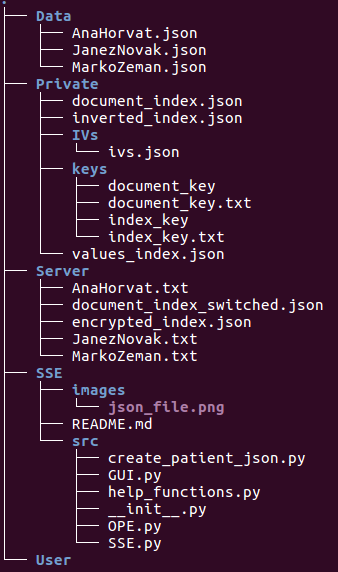
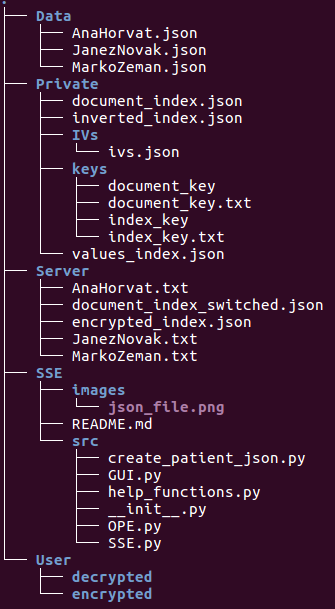
Documentation completed

diff --git a/README.md b/README.md
@@ -11,9 +11,9 @@ Search steps over encrypted data:
 1. Create three example json data files. You can create examples if you execute python file _create\_patient\_json.py_. One of examples is shown in the picture.  
 ![alt json_file](images/json_file.png "JSON file")
 
-2. Create index and document key and save them: _SSE_ class method _generate\_and\_save\_keys_.
+2. Create 32B index and document key and save them: _SSE_ class method _generate\_and\_save\_keys_.
 
-3. Generate IVs and update document index - _SSE_ class method _update\_IVs\_and\_doc\_index_.
+3. Generate 16B IVs and update document index - _SSE_ class method _update\_IVs\_and\_doc\_index_.
 
 4. Create switched document index for server - _SSE_ class method _create\_switched\_document\_index_.
 
@@ -33,9 +33,8 @@ Search steps over encrypted data:
 
 
 ### _Instructions for establishing working directory_
-Opiši direktorijsko strukturo. Testiraj v drugi mapi od začetka.
 
-1. Create empty folder and name it _TestSSE_.
+1. Create empty folder and name it for example _TestSSE_.
 
 2. Inside this directory create five more folders and name them _Data_, _Private_, _Server_, _SSE_, _User_.
 
@@ -91,6 +90,8 @@ ope.encrypt_index()
 ope.encrypt_documents()
 ```
 
+11. Inside _User_ directory make two empty directories named _encrypted_ and _decrypted_.
+
 After that your directory structure should look something like this:    
 ![alt folder_structure_4](images/folder_structure_4.png "directory structure")
 
@@ -103,27 +104,15 @@ Encrypted file of Janez Novak should look like this:
 ### _GUI usage example_ 
 GUI - razloži, kako se zažene in uporablja.
 
+Graphical interface gives you opportunity to search over encrypted data with simple clicking.
+After you click _Search!_ button, query is parsed and execute search over encrypted data.
+Files that match query are copied to _User/encrypted_ folder and then decrypted to _User/decrypted_ folder.
 
+We start GUI by executing _GUI.py_ file in _SSE/src_ directory.  
+![alt gui](images/gui.png "SSE graphical interface")
 
 
 * * * 
-
 In our solution we used Python 3.5.2 and Anaconda 3.
-
-
-
-
-
-
-
-
-
-
-
-
-
-
-
-
 
 
